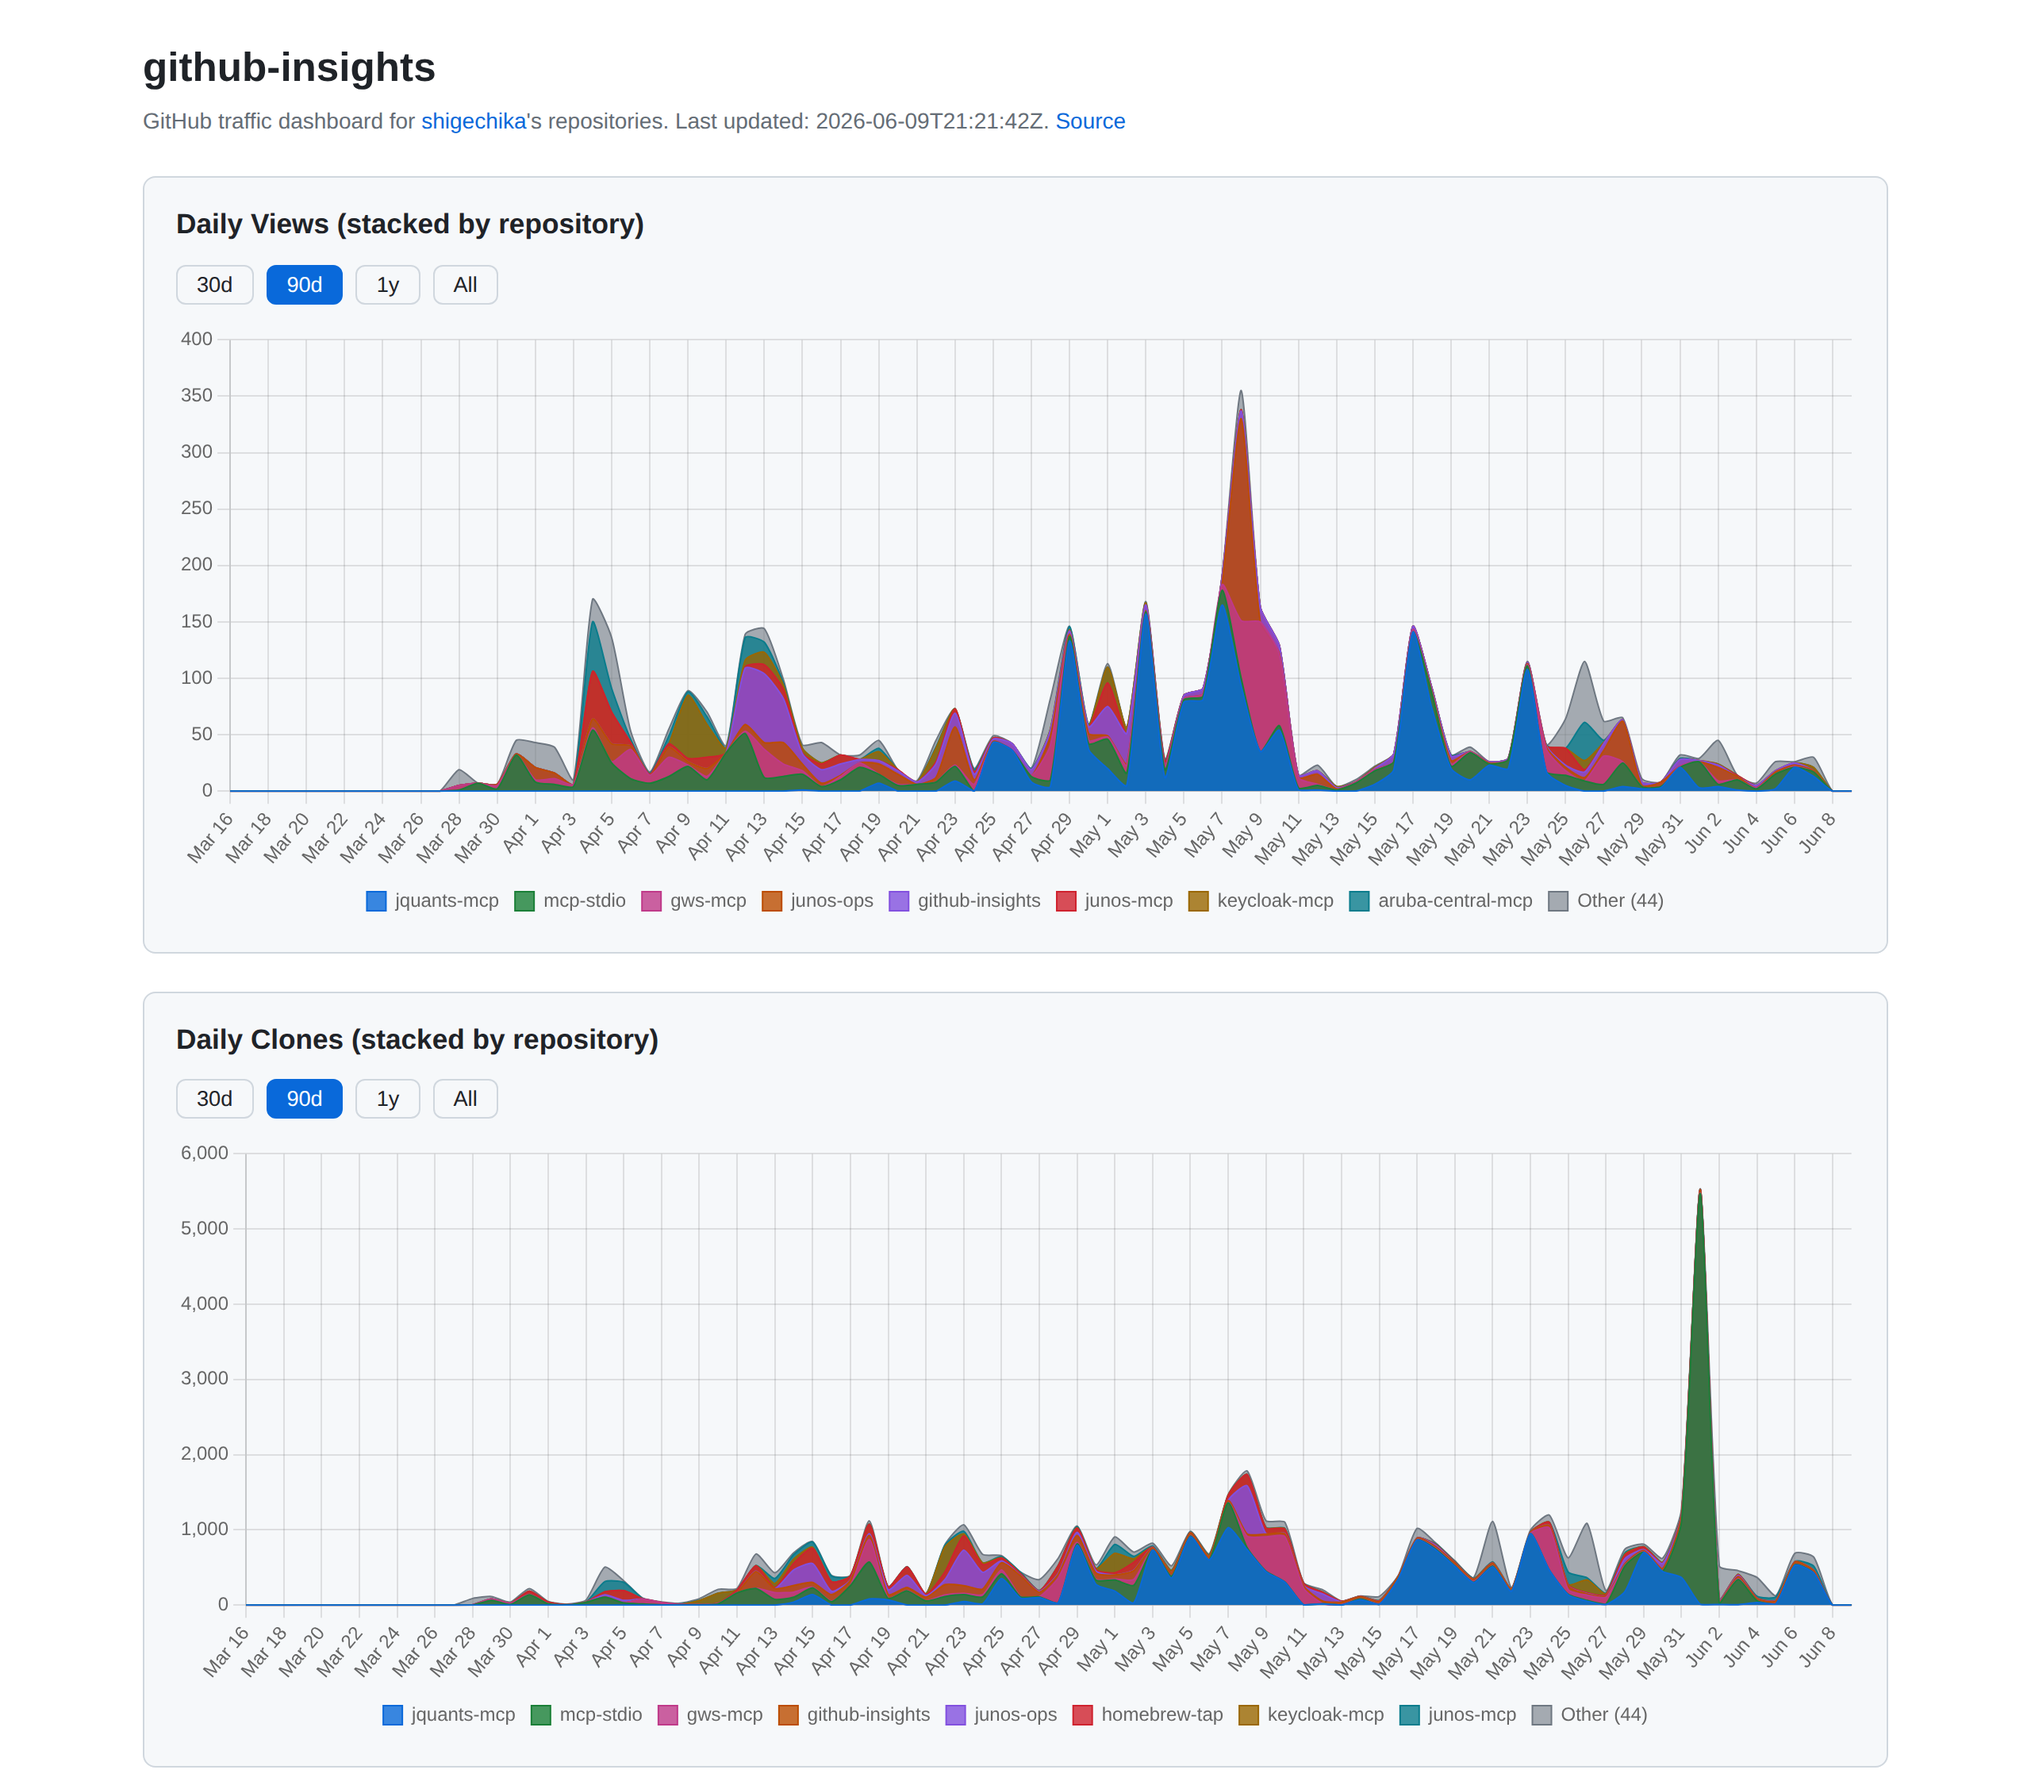
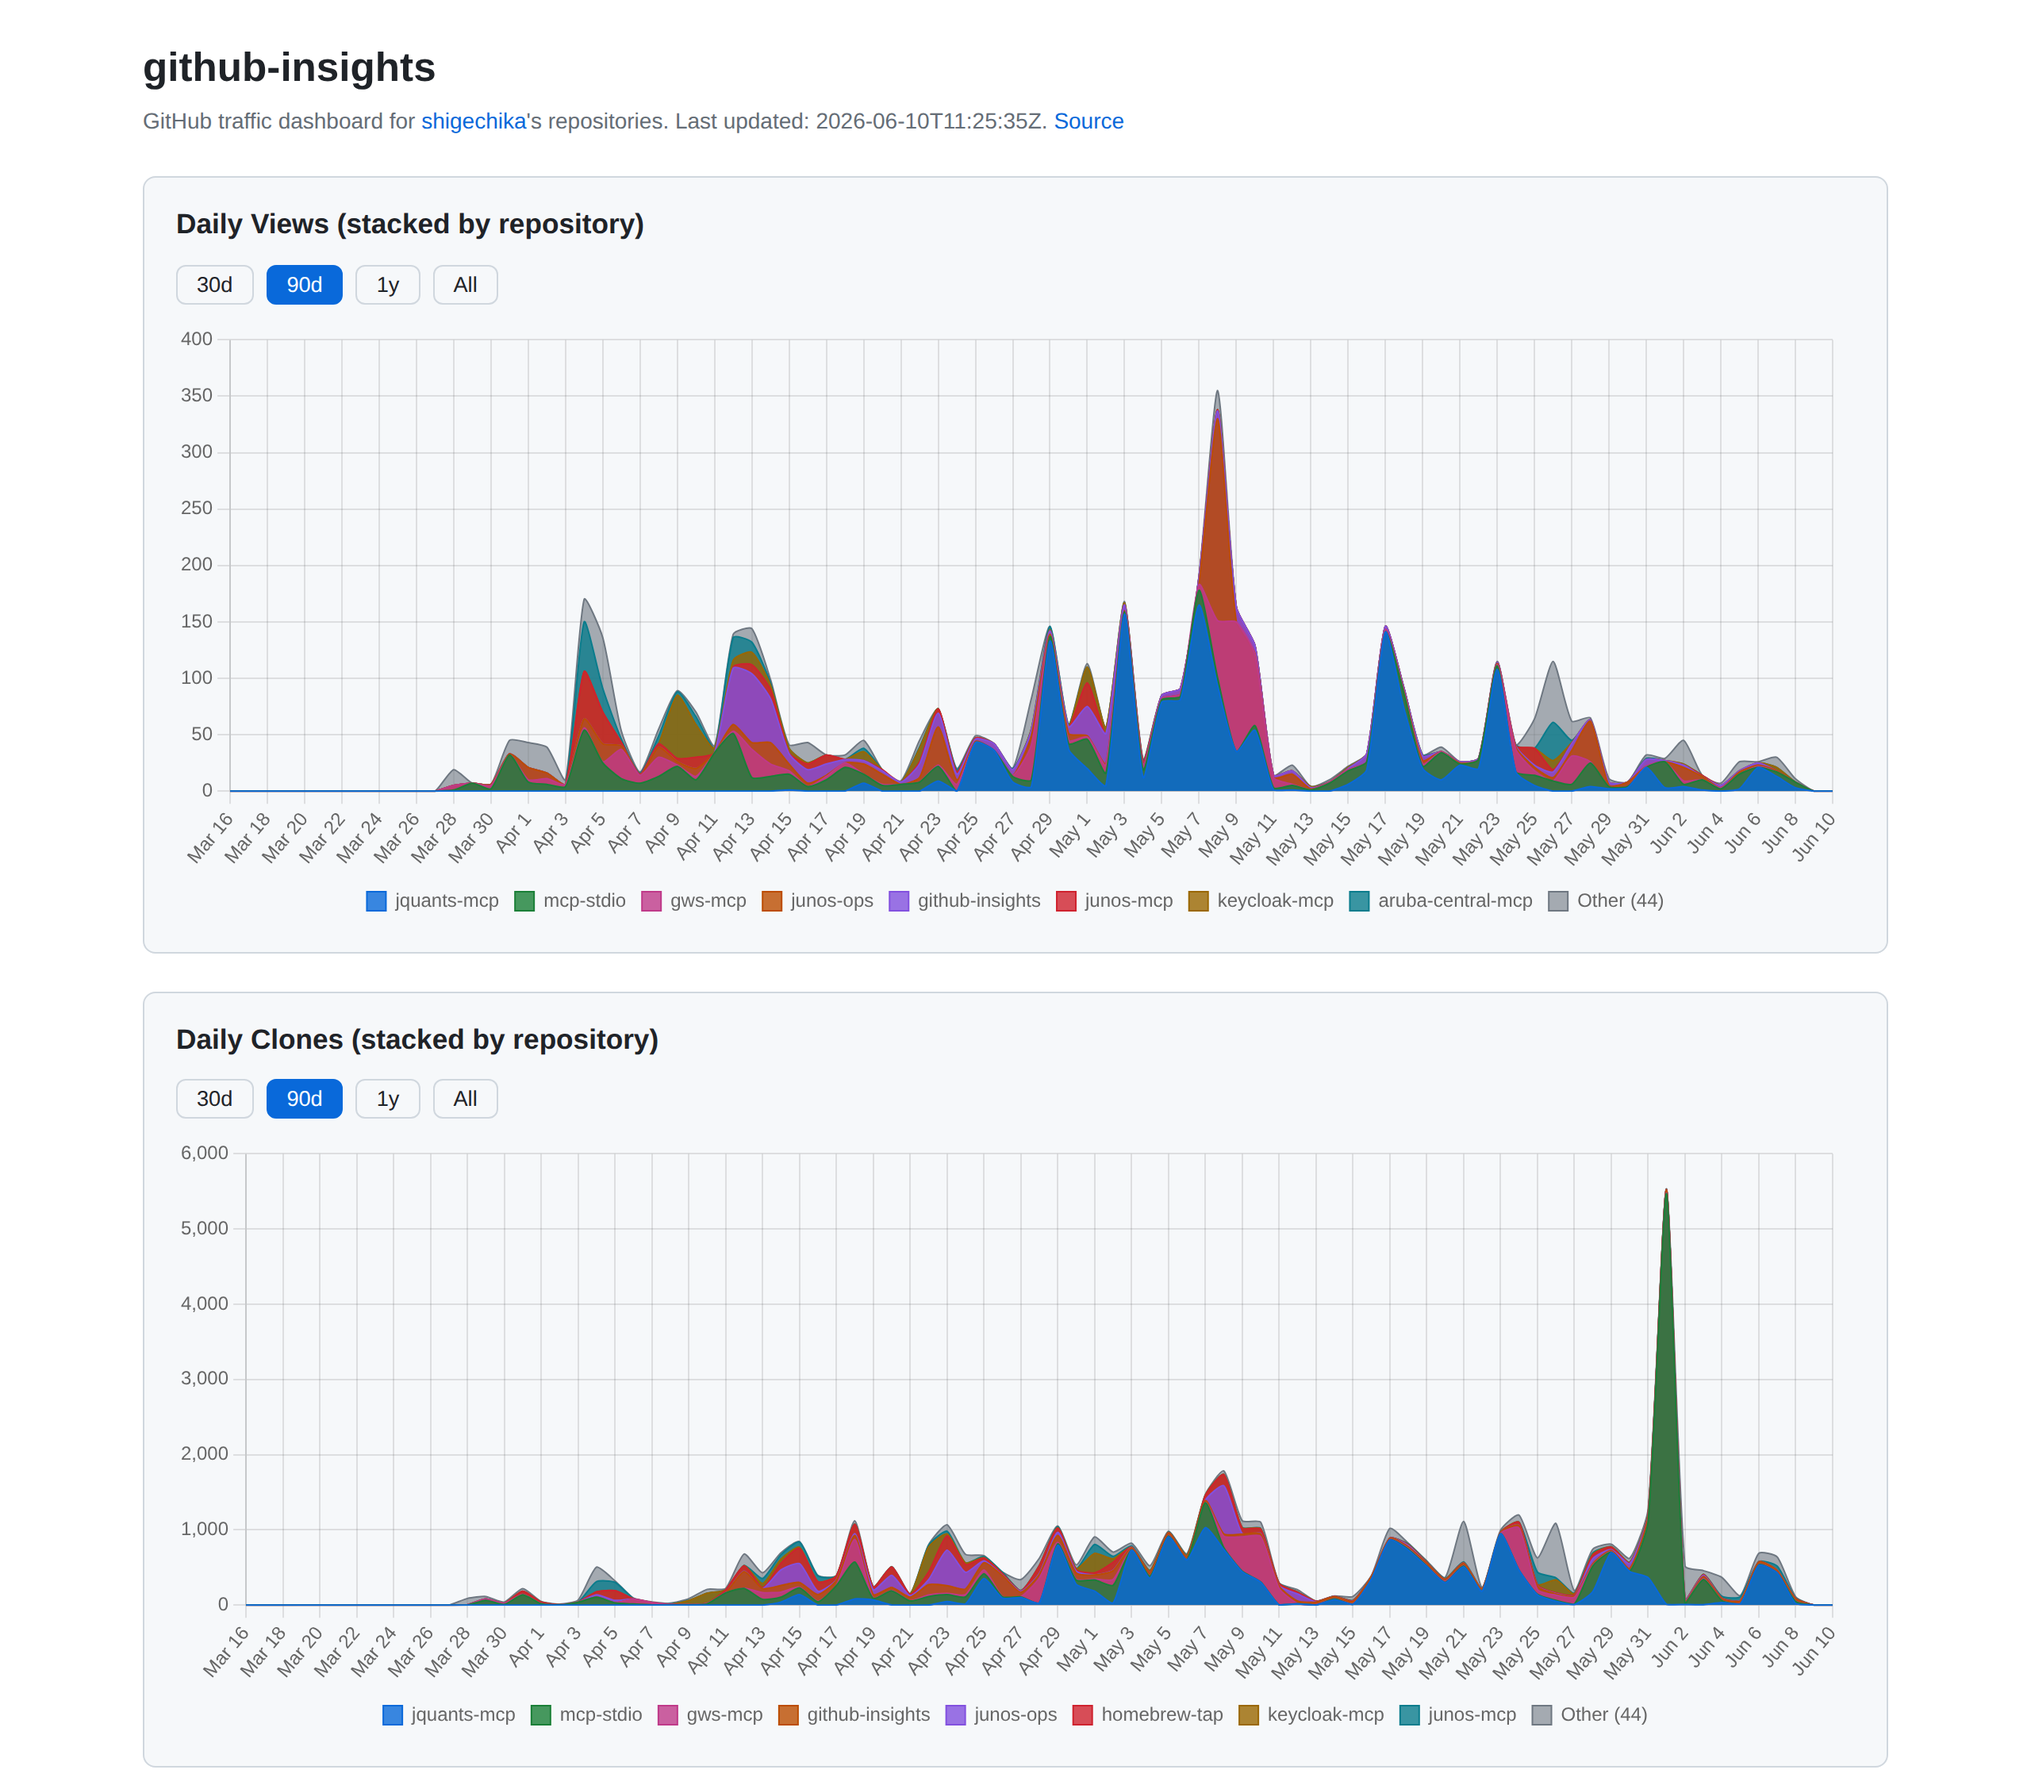
chore: update traffic data 2026-06-10

Changed region(s): [[0.125, 0.2178, 0.9062, 0.4978], [0.125, 0.6533, 0.9062, 0.9333], [0.4688, 0.0622, 0.5625, 0.0933]]

diff --git a/README.md b/README.md
@@ -11,7 +11,7 @@ English | [日本語](README.ja.md)
 <!-- CHARTS:START -->
 ## Insights
 
-> Last updated: 2026-06-10T11:25:35Z
+> Last updated: 2026-06-10T21:37:31Z
 
 ### Views by Repository
 
